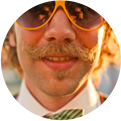
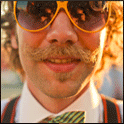
fixed comments

diff --git a/hw-08/index.html b/hw-08/index.html
@@ -27,9 +27,9 @@
            </div>
        </header>
 
-       <section class="holiday_dreams">
-           <h2 class="holiday_dreams_title">Share your holiday dreams</h2>
-           <p class="holiday_dreams_subtitle">And find the perfect partner to fullfill it</p>
+       <section class="site_caption">
+           <h2 class="site_caption_title">Share your holiday dreams</h2>
+           <p class="site_caption_subtitle">And find the perfect partner to fullfill it</p>
             <a href="#" class="find_partner_button">Find your holiday partner</a>
         </section>
 
@@ -38,8 +38,7 @@
        <ul class="partner_list">
            <li class="partner_list_item">
                <div class="person">
-                    <a href="#"><img src="img/photo_1.png" alt="Bradley Hunter"></a>
-                    <a href="#"><div class="icon icon_1"></div></a>
+                    <a class="icon icon_1" href="#"><img  src="img/photo_1.png" alt="Bradley Hunter"></a>            
                </div>
                <a href="#">
                    <h3 class="name">Bradley Hunter</h3>
@@ -50,9 +49,8 @@
 
            <li class="partner_list_item">
                 <div class="person">
-                        <a href="#"><img src="img/photo_2.png" alt="Heather Walker"></a>
-                        <a href="#"><div class="icon icon_2"></div></a>
-                </div>
+                        <a class="icon icon_2" href="#"><img src="img/photo_2.png" alt="Heather Walker"></a>
+                 </div>
                 <a href="#">
                  <h3 class="name">Heather Walker</h3>
                  <p class="description">I'm a happy person that loves cats and 
@@ -62,9 +60,8 @@
 
             <li class="partner_list_item">
                 <div class="person">
-                    <a href="#"><img src="img/photo_3.png" alt="Lucas Marsha"></a>
-                    <a href="#"><div class="icon icon_3"></div></a>
-               </div>
+                    <a class="icon icon_3" href="#"><img src="img/photo_3.png" alt="Lucas Marsha"></a>
+                </div>
                <a href="#">
                 <h3 class="name">Lucas Marsha</h3>
                 <p class="description">I get my inspiration from nature and objects around 
@@ -75,9 +72,8 @@
 
             <li class="partner_list_item">
                 <div class="person">
-                    <a href="#"><img src="img/photo_4.png" alt="Bradley Hunter"></a>
-                    <a href="#"><div class="icon icon_4"></div></a>
-               </div>
+                    <a class="icon icon_4" href="#"><img src="img/photo_4.png" alt="Bradley Hunter"></a>
+                </div>
                <a href="#">
                 <h3 class="name">Bradley Hunter</h3>
                 <p class="description">Based in Chicago. I love playing tennis and loud music.</p>

diff --git a/hw-08/css/style.css b/hw-08/css/style.css
@@ -77,7 +77,7 @@ a {
 
 /*headers*/
 
-.holiday_dreams {
+.site_caption {
     padding-top: 226px;
     margin: 0 auto 70px auto;
     background: url(../img/bg_desktop.png) no-repeat center;
@@ -89,7 +89,7 @@ a {
 }
 
 
-.holiday_dreams_title {
+.site_caption_title {
     font-family: 'Montserrat', sans-serif;
     color: #ffffff;
     font-weight: 700;
@@ -99,7 +99,7 @@ a {
     display: inline-block;
 }
 
-.holiday_dreams_subtitle {
+.site_caption_subtitle {
     margin: 0 auto;
     font-family: 'Roboto';
     color: #ffffff;
@@ -157,7 +157,13 @@ a {
     margin: 0 auto 20px auto;
 }
 
-.icon {
+.person img {
+    border-radius: 50%;
+}
+
+.icon::after {
+    content: '';
+    display: block;
     position: absolute;
     height: 40px;
     width: 40px;
@@ -167,24 +173,25 @@ a {
     background-position: center;
     top: 90px;
     left: 70%;
+    
 }
 
-.icon_1 {    
+.icon_1::after {  
     background-color: #ff4e50;
     background-image: url(../img/icon_1.png);
 }
 
-.icon_2 {    
+.icon_2::after {    
     background-color: #ffa507;
     background-image: url(../img/icon_2.png);
 }
 
-.icon_3 {    
+.icon_3::after {    
     background-color: #1cd7ad;
     background-image: url(../img/icon_3.png);
 }
 
-.icon_4 {    
+.icon_4::after {    
     background-color: #4e73db;
     background-image: url(../img/icon_4.png);
 }

diff --git a/hw-08/css/media.css b/hw-08/css/media.css
@@ -17,17 +17,17 @@
         margin-bottom: 116px;
     }
 
-    .holiday_dreams {
+    .site_caption {
         height: 540px;
     }
 
 
-    .holiday_dreams_subtitle {
+    .site_caption_subtitle {
         width: 224px;
         font-size: 18px;
     }
 
-    .holiday_dreams_title {
+    .site_caption_title {
         width: 280px; 
         font-size: 28px;
     }
@@ -61,11 +61,11 @@
         margin-left: 20px;
     }
 
-    .holiday_dreams_title {
+    .site_caption_title {
         font-size: 50px;
     }
 
-    .holiday_dreams_subtitle {
+    .site_caption_subtitle {
         font-size: 22px;
     }
 
@@ -101,12 +101,12 @@
         margin-left: 30px;
     }
 
-    .holiday_dreams_title {
+    .site_caption_title {
         font-size: 50px;
         width: 490px;
     }
 
-    .holiday_dreams_subtitle {
+    .site_caption_subtitle {
         font-size: 22px;
     }
 
